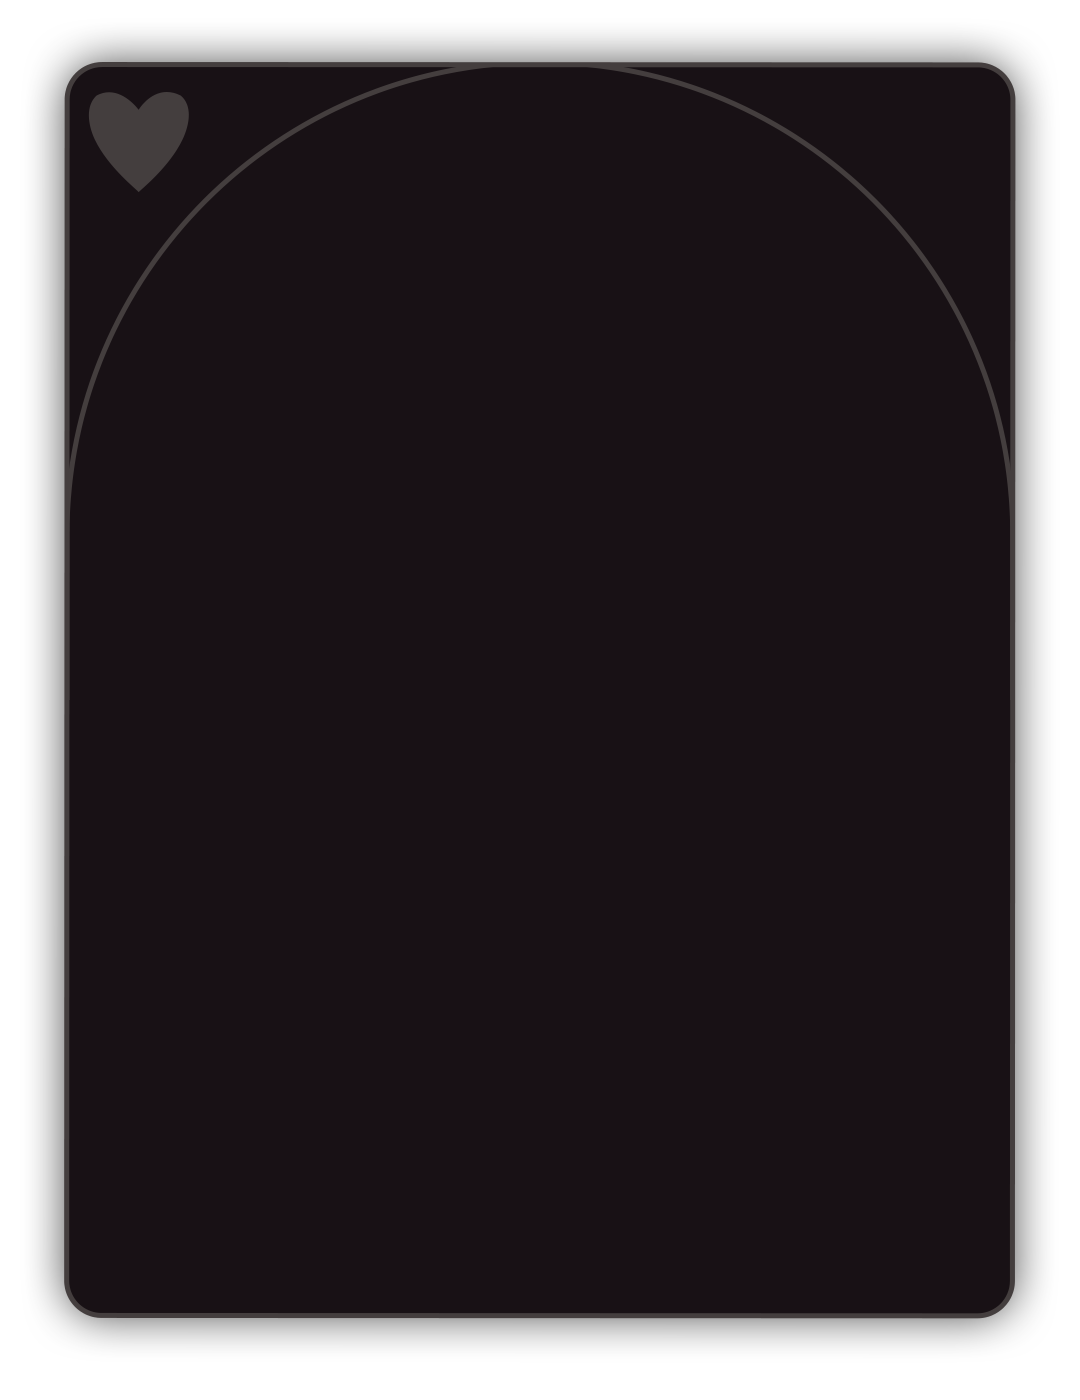
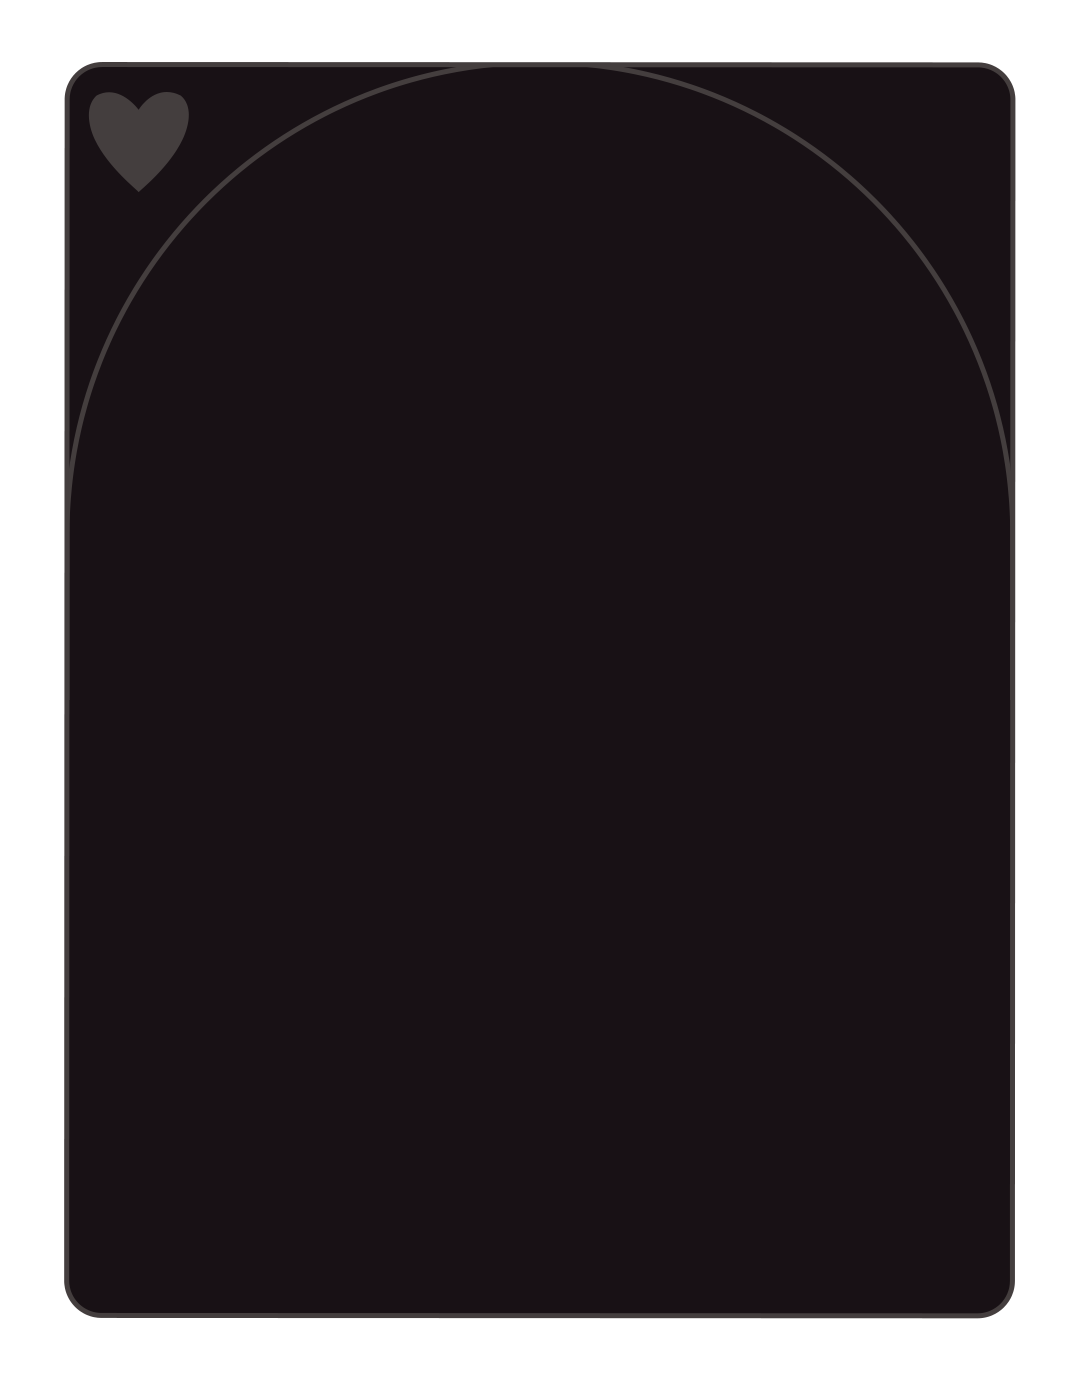
change card files, add shadow to cards, add placeholder shadow to reviews

Changed region(s): [[0.0306, 0.0307, 0.9778, 0.9829]]

diff --git a/_site/style.css b/_site/style.css
@@ -246,6 +246,7 @@ h1{
     position: relative;
     width: 100%;
     aspect-ratio: 1080 / 1400;
+    filter: drop-shadow(0px 0px 30px rgba(0, 0, 0, 1));
 }
 
 .card-frame-bg{
@@ -266,7 +267,7 @@ h1{
     /* height: 53%; */
     object-fit: cover;
     z-index: 2;
-    /* -webkit-mask-image: radial-gradient(ellipse 62% 58% at 50% 42%, #000 40%, transparent 78%); */
+    -webkit-mask-image: radial-gradient(ellipse 80% 58% at 50% 50%, #000 40%, transparent 78%);
     mask-image: radial-gradient(ellipse 80% 58% at 50% 50%, #000 40%, transparent 78%);
 }
 
@@ -309,6 +310,7 @@ h1{
     padding: 26px 24px;
     width: 300px;
     flex-shrink: 0;
+    box-shadow: 0 10px rgba(0, 0, 0, .5);
 }
 
 .review-stars{
